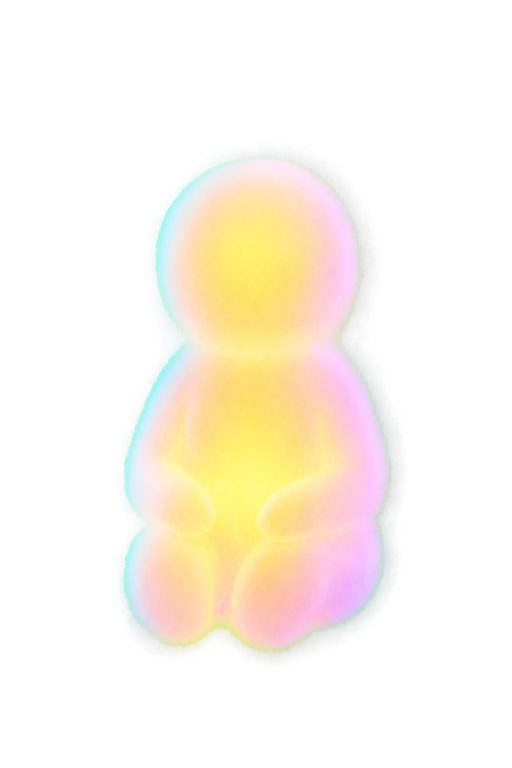
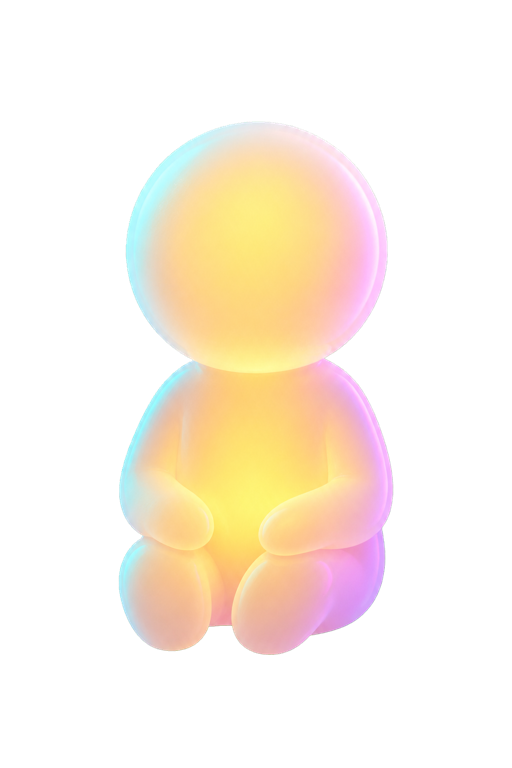
feat: add final Lumen sitting and new poses

Changed region(s): [[0.2188, 0.1562, 0.7812, 0.875], [0.4688, 0.4688, 0.5312, 0.5]]

diff --git a/js/lumen/config.js b/js/lumen/config.js
@@ -47,6 +47,8 @@ export const LUMEN_POSES = {
     home: 'sitting',
     route: 'sitting',
     first_visit: 'sitting',
+    lotus: 'lotus',
+    prone: 'prone',
     profiles: 'peek',
     menu: 'peek',
     default: 'peek',